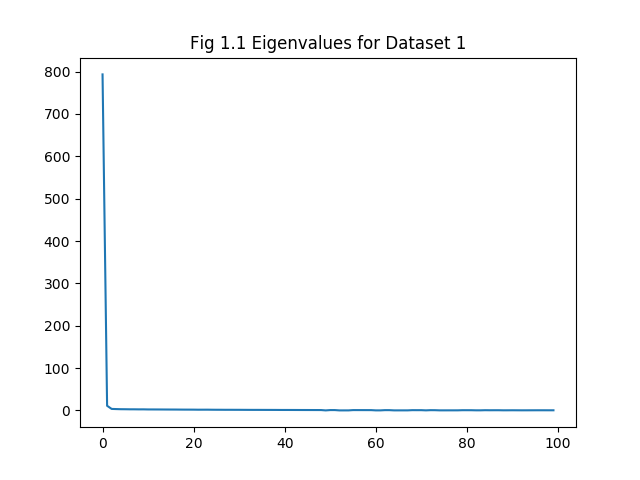
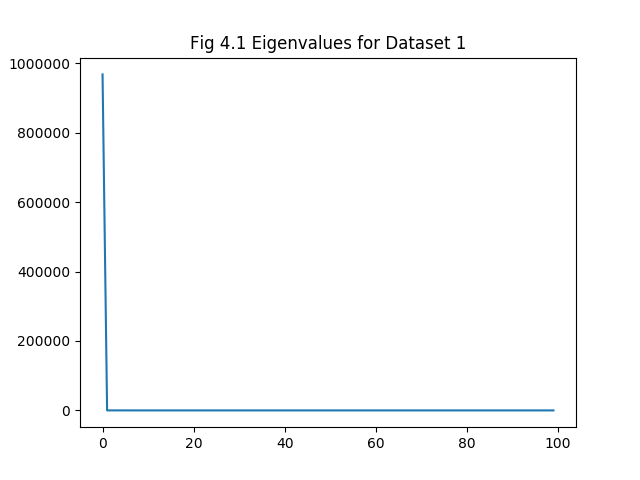
Add Risk Premium PCA.

diff --git a/risk_premiumPCA.py b/risk_premiumPCA.py
@@ -1,0 +1,49 @@
+# -*- coding: utf-8 -*-
+"""
+Created on Tue Jun 06 16:47:39 2017
+
+@author: Jiacheng Z
+"""
+#----this correspond to question 2, part 5----
+import numpy as np
+import matplotlib.pyplot as plt
+from numpy.linalg import inv as invert
+from vanillaPCA import getFileLocs
+
+def main():
+    FileLocs = getFileLocs()
+    Gamma = 50
+    for idx, fileLoc in enumerate(FileLocs):
+        dataset = np.genfromtxt(fileLoc, delimiter=',')
+        T,N = dataset.shape
+
+        X_Bar = np.mean(dataset,axis=0)
+        CovarianceMat = (dataset.T).dot(dataset)/T+Gamma*X_Bar.dot(X_Bar.T)
+        EigenValues, EigenVectors = np.linalg.eig(CovarianceMat)
+
+        plt.figure()
+        plt.plot(EigenValues)
+        plt.title('Fig {}.1 Eigenvalues for Dataset {}'.format(idx+4,idx+1))
+        plt.savefig('Fig_{}_1.png'.format(idx+4))
+
+        Loadings = (EigenVectors[:3]).T
+        Factors = dataset.dot(Loadings).dot(invert(Loadings.T.dot(Loadings)))
+
+        FactorsForPlot = Factors.T
+        trueFactor = np.genfromtxt(r"C:\Users\Jiacheng Z\Dropbox\Courses\17Spring\MS&E349\MS&E349_Shared\HW2\code\Simulation_Factor_{}.csv".
+                                   format(idx+1),delimiter=',').T
+
+        plt.figure()
+        f, (ax1, ax2, ax3) = plt.subplots(3, sharex=True, sharey=True)
+        for idy, axis in enumerate([ax1,ax2, ax3]):
+            factor = FactorsForPlot[idy]
+            if np.mean(factor) < 0: factor = -factor
+            axis.plot(factor, label='Fitted ' + r'$\hat{F}$' + '{}'.format(idy+1))
+            axis.plot(trueFactor[idy], label='True ' + r'$F_{}$'.format(idy+1))
+            axis.legend()
+        ax1.set_title('Fig {}.2 Factors Dataset {}'.format(idx+4, idx+1))
+        plt.savefig('Fig_{}_2.png'.format(idx+4))
+
+
+if __name__ == '__main__':
+    main()
